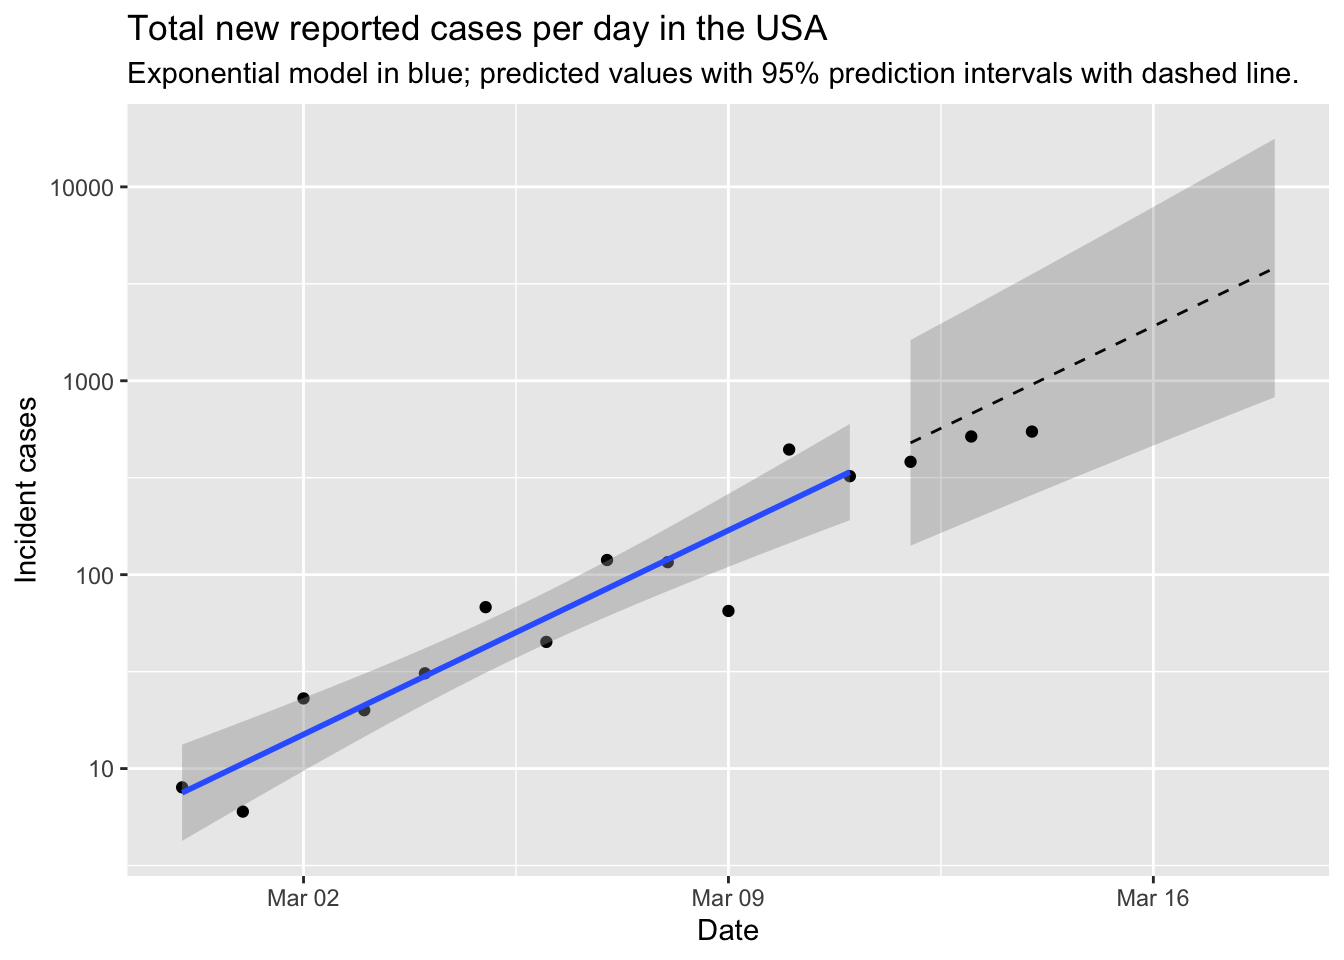
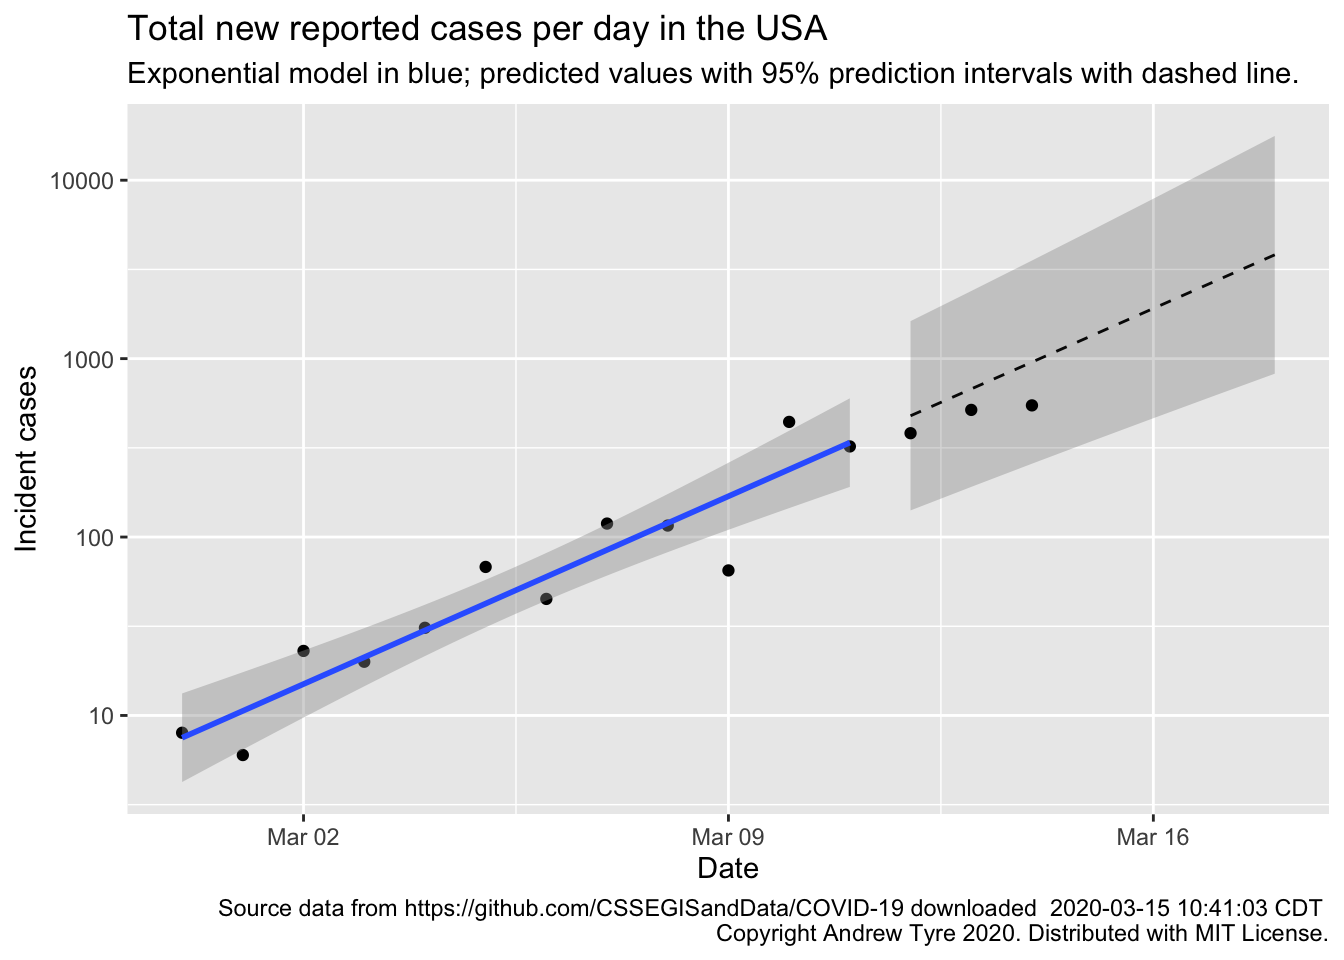
Fuller draft of post plus fiddling with copyright etc

diff --git a/content/post/covid-19_in_R_III.html b/content/post/covid-19_in_R_III.html
@@ -1,11 +1,12 @@
 ---
 title: "COVID-19 and R Part III"
 author: "Drew Tyre"
-date: '2020-03-15'
-output: 
+date: "2020-03-15"
+output:
+  word_document: default
   html_document:
     code_folding: hide
-draft: no
+draft: yes
 slug: COVID-19_and_R_III
 tags_include:
 - R
@@ -45,11 +46,153 @@ new cases per case is not changing. If the “social distancing”
 is working to reduce the spread, then the number of new cases
 should start to drop away from my prediction. This is sort of
 what is shown in the figure, but not severe enough yet
-to make me throw out my simple model.</p>
+to make me throw out my simple model. Yet.</p>
+<p>My friend Brenda Pracheil (also a data nerd) offered up an interesting
+hypothesis for the lower number of cases reported yesterday: the weekend hypothesis.
+Fewer doctors, clinics etc. open on the weekend, so fewer people getting tested and
+reported. Too early to judge if that’s happening or not, but I’ll keep
+it in mind! The point that is farthest off my fitted line is a Monday.</p>
+<p>My summary of things to do:</p>
+<ul>
+<li><p>Wash your hands especially after going out and touching things other people have touched.
+Seriously. Soap more effective than hand sanitizer. Use hand sanitizer if you can’t get
+soap and water, but as long as you don’t touch your face after touching door knobs, etc.
+you can wait and use soap.</p></li>
+<li><p>Don’t bother with a mask unless you are already sick with some respiratory illness. Apparently
+wearing a mask makes you <em>more</em> likely to touch your face, and that’s bad.</p></li>
+<li><p>If you can, work from home and regardless avoid businesses and activities where you’ll end up closer
+than 1 m (3 feet) from others. This “social distancing” reduces the number of people you
+come in contact with per day, which reduces the rate at which the virus spreads. This is
+not an all or nothing thing. Tomas Pueyo, clearly a fellow (but wealthier and more successful!) data nerd,
+wrote <a href="https://medium.com/@tomaspueyo/coronavirus-act-today-or-people-will-die-f4d3d9cd99ca">a great article that shows the effects of social distancing</a> (among other interesting things).
+This chart in particular shows the benefit of social distancing:
+<img src="https://miro.medium.com/max/2942/1*aXhYA5D5PdTFjCTbFv8zmg.png" alt="chart 21c" />
+Reducing the number of people you come in contact with by 25% would postpone the epidemic peak by weeks, and reduce the size of the epidemic. A little social distancing goes a long way.</p></li>
+<li><p>Don’t expect this to be over in 2 weeks. If you’re exposed, and you isolate yourself, after
+2 weeks you can be sure you didn’t get infected by that exposure. But the epidemic is going to
+go on for quite a while! Months. Which leads me to …</p></li>
+<li><p>Don’t buy enough toilet paper for a year. “Stocking up” reduces the
+number of times you go to the store for supplies, not enable you to weather the apocalypse.
+If you’re in a grocery store, and there is some toilet paper, buy a package even if you don’t need it.
+But don’t buy 20, that’s just being silly. And rushing around to every store in town looking for
+toilet paper just increases your contact rate!</p></li>
+<li><p>Don’t panic. Yes, lots of people are going to get sick, but if you’re healthy and under 60 you
+are very unlikely to die or even need serious medical help. You should practice social distancing,
+even so, because that helps the broader community including people that are more likely to suffer
+severe disease from the virus.</p></li>
+<li><p>Do offer to help elderly or unhealthy neighbors and relatives. Offer to bring them supplies so
+they don’t have to risk going out. If you do that, when you deliver keep your distance! You don’t
+want to be the vector for someone getting ill.</p></li>
+</ul>
+<p>Stay well everyone, and wash your hands!</p>
+</div>
+<div id="full-data-nerd-below-this-point" class="section level1">
+<h1>Full data nerd below this point</h1>
+<p><a href="https://medium.com/@tomaspueyo/coronavirus-act-today-or-people-will-die-f4d3d9cd99ca">That article by Tomas Pueyo</a>
+has some good points about the difference between reported cases (what I’m using) and true cases
+(what I wish we had). The CDC does have a table of cases by date of infection, but it’s a
+small fraction of the total cases reported. Nonetheless, I thought it might be
+instructive to run the exponential model on that data. Annnd, it’s buried inside a JSON
+file used by a javascript widget that makes the figure and displays the table. No HTML table to scrape.</p>
+<pre class="r"><code># if running this for the first time, uncomment (once!) all the lines from 
+# &lt;HERE&gt; to 
+# library(&quot;RJSONIO&quot;)
+# library(&quot;RCurl&quot;)
+# 
+# # grab the data
+# raw_data &lt;- getURL(&quot;https://www.cdc.gov/coronavirus/2019-ncov/us-cases-epi-chart.json&quot;)
+# # Then covert from JSON into a list in R
+# data &lt;- fromJSON(raw_data)$data$columns # the list item named &quot;data&quot; has what we want, in an item named columns
+# # now put in a tibble, need to do some manual things to remove the name from the start of the data
+# cdc_epi &lt;- tibble(
+#   Date = mdy(data[[1]][-1]), # grab first item in list, remove first element (the name)
+#   incident_cases = as.numeric(data[[2]][-1]) # grab second item in list, remove first element
+# )
+# # archive it, so that I use the same data for these figures always!
+# also means I don&#39;t hit the server with data requests every time I save the post.
+# save(cdc_epi, file = &quot;data/cdc_epi_2020-03-15.Rda&quot;)
+# &lt;HERE&gt;
+load(file = &quot;data/cdc_epi_2020-03-15.Rda&quot;)
+
+# plot it, just to see what it looks like
+ggplot(data = cdc_epi,
+       mapping = aes(x = Date, y = incident_cases)) + 
+  geom_point() +
+  geom_vline(xintercept = ymd(&quot;2020-03-05&quot;), linetype = 2)</code></pre>
+<p><img src="/post/covid-19_in_R_III_files/figure-html/unnamed-chunk-2-1.png" width="672" /></p>
+<p>Cool! It worked … OK, the vertical dashed line marks the point at which the CDC thinks
+not all cases are yet reported, so we shouldn’t model things after March 5th, yet.
+I want to fit the same model as before, but the difficulty with that model is
+that it doesn’t handle zeros well – <span class="math inline">\(log_{10}(0) = -\infty\)</span>. In my
+current predictions I’m dodging that issue by only using data after
+the number of incident cases is always positive. But I’ve been
+wondering how a glm with log link would do. Also need to choose an
+error distribution; a Poisson distribution has only positive
+support and discrete values so I’ll try that.</p>
+<pre class="r"><code>cdc_epi_trimmed &lt;- filter(cdc_epi, Date &lt; &quot;2020-03-05&quot;) %&gt;% 
+  mutate(days = as.numeric(Date - ymd(&quot;2020-02-27&quot;))) # use day relative to Feb 27, same as other model
+cdc_epi_glm &lt;- glm(incident_cases ~ days, data = cdc_epi_trimmed, family = poisson)
+summary(cdc_epi_glm)</code></pre>
+<pre><code>## 
+## Call:
+## glm(formula = incident_cases ~ days, family = poisson, data = cdc_epi_trimmed)
+## 
+## Deviance Residuals: 
+##     Min       1Q   Median       3Q      Max  
+## -3.3802  -1.0380  -0.3911   0.7188   3.4028  
+## 
+## Coefficients:
+##             Estimate Std. Error z value Pr(&gt;|z|)    
+## (Intercept) 3.306554   0.045628   72.47   &lt;2e-16 ***
+## days        0.142165   0.006575   21.62   &lt;2e-16 ***
+## ---
+## Signif. codes:  0 &#39;***&#39; 0.001 &#39;**&#39; 0.01 &#39;*&#39; 0.05 &#39;.&#39; 0.1 &#39; &#39; 1
+## 
+## (Dispersion parameter for poisson family taken to be 1)
+## 
+##     Null deviance: 1096.97  on 52  degrees of freedom
+## Residual deviance:  108.51  on 51  degrees of freedom
+## AIC: 237.87
+## 
+## Number of Fisher Scoring iterations: 5</code></pre>
+<p>Wow. Daily growth rate is 0.14 day<sup>-1</sup>, almost exactly the same estimate as I get for the
+model based on the total number of cases. That model is mildly overdispersed
+(ratio of residual deviance to degrees of freedom is
+2.1), so
+how does a Negative Binomial model compare?</p>
+<pre class="r"><code>library(&quot;mgcv&quot;) # switch to mgcv::gam to estimate overdispersion parameter</code></pre>
+<pre><code>## Loading required package: nlme</code></pre>
+<pre><code>## 
+## Attaching package: &#39;nlme&#39;</code></pre>
+<pre><code>## The following object is masked from &#39;package:dplyr&#39;:
+## 
+##     collapse</code></pre>
+<pre><code>## This is mgcv 1.8-28. For overview type &#39;help(&quot;mgcv-package&quot;)&#39;.</code></pre>
+<pre class="r"><code>cdc_epi_glm2 &lt;- gam(incident_cases ~ days, data = cdc_epi_trimmed, family = mgcv::nb)
+summary(cdc_epi_glm2)</code></pre>
+<pre><code>## 
+## Family: Negative Binomial(8.649) 
+## Link function: log 
+## 
+## Formula:
+## incident_cases ~ days
+## 
+## Parametric coefficients:
+##             Estimate Std. Error z value Pr(&gt;|z|)    
+## (Intercept) 3.234943   0.100297   32.25   &lt;2e-16 ***
+## days        0.134150   0.009143   14.67   &lt;2e-16 ***
+## ---
+## Signif. codes:  0 &#39;***&#39; 0.001 &#39;**&#39; 0.01 &#39;*&#39; 0.05 &#39;.&#39; 0.1 &#39; &#39; 1
+## 
+## 
+## R-sq.(adj) =  0.925   Deviance explained = 85.4%
+## -REML = 119.64  Scale est. = 1         n = 53</code></pre>
+<p>The AIC for this model is 235 so moderately better than
+the Poisson model.</p>
 </div>
 <div class="footnotes">
 <hr />
 <ol>
-<li id="fn1"><p>The code for this post that is not shown is <a href="https://github.com/rbind/cheap_shots/blob/master/content/post/covid-19_in_R_III.Rmd">on Github</a>.<a href="#fnref1" class="footnote-back">↩</a></p></li>
+<li id="fn1"><p>The code for this post that is not shown is <a href="https://raw.githubusercontent.com/rbind/cheap_shots/master/content/post/covid-19_in_R_II.Rmd">on Github</a>.<a href="#fnref1" class="footnote-back">↩</a></p></li>
 </ol>
 </div>

diff --git a/LICENSE.md b/LICENSE.md
@@ -1,6 +1,6 @@
 The MIT License (MIT)
 
-Copyright (c) 2016-present George Cushen
+Copyright (c) 2016-present Andrew Tyre
 
 Permission is hereby granted, free of charge, to any person obtaining a copy of
 this software and associated documentation files (the "Software"), to deal in
